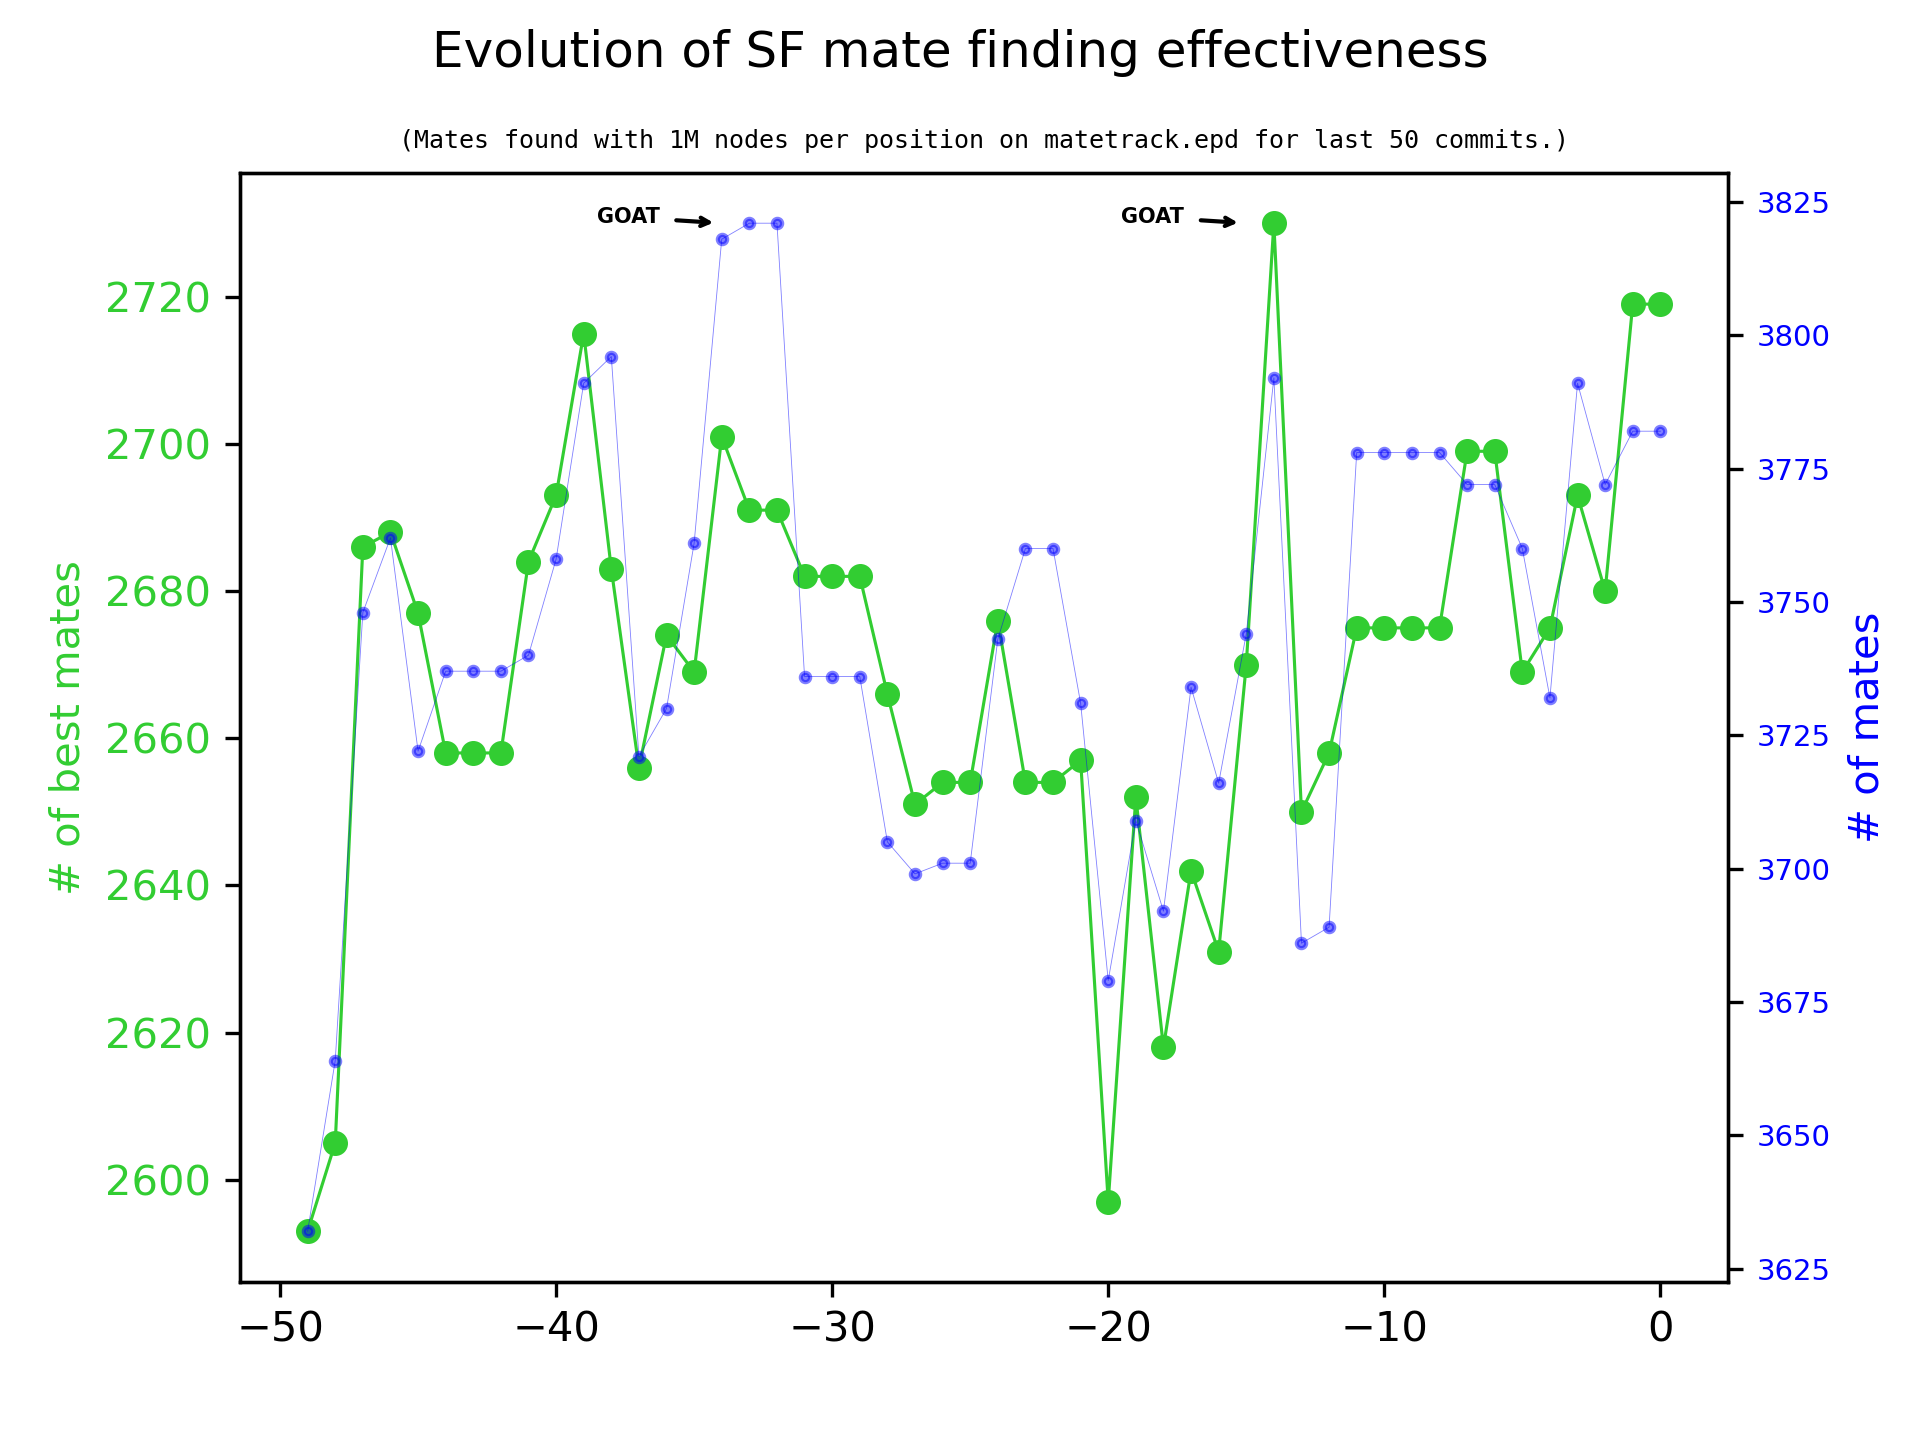
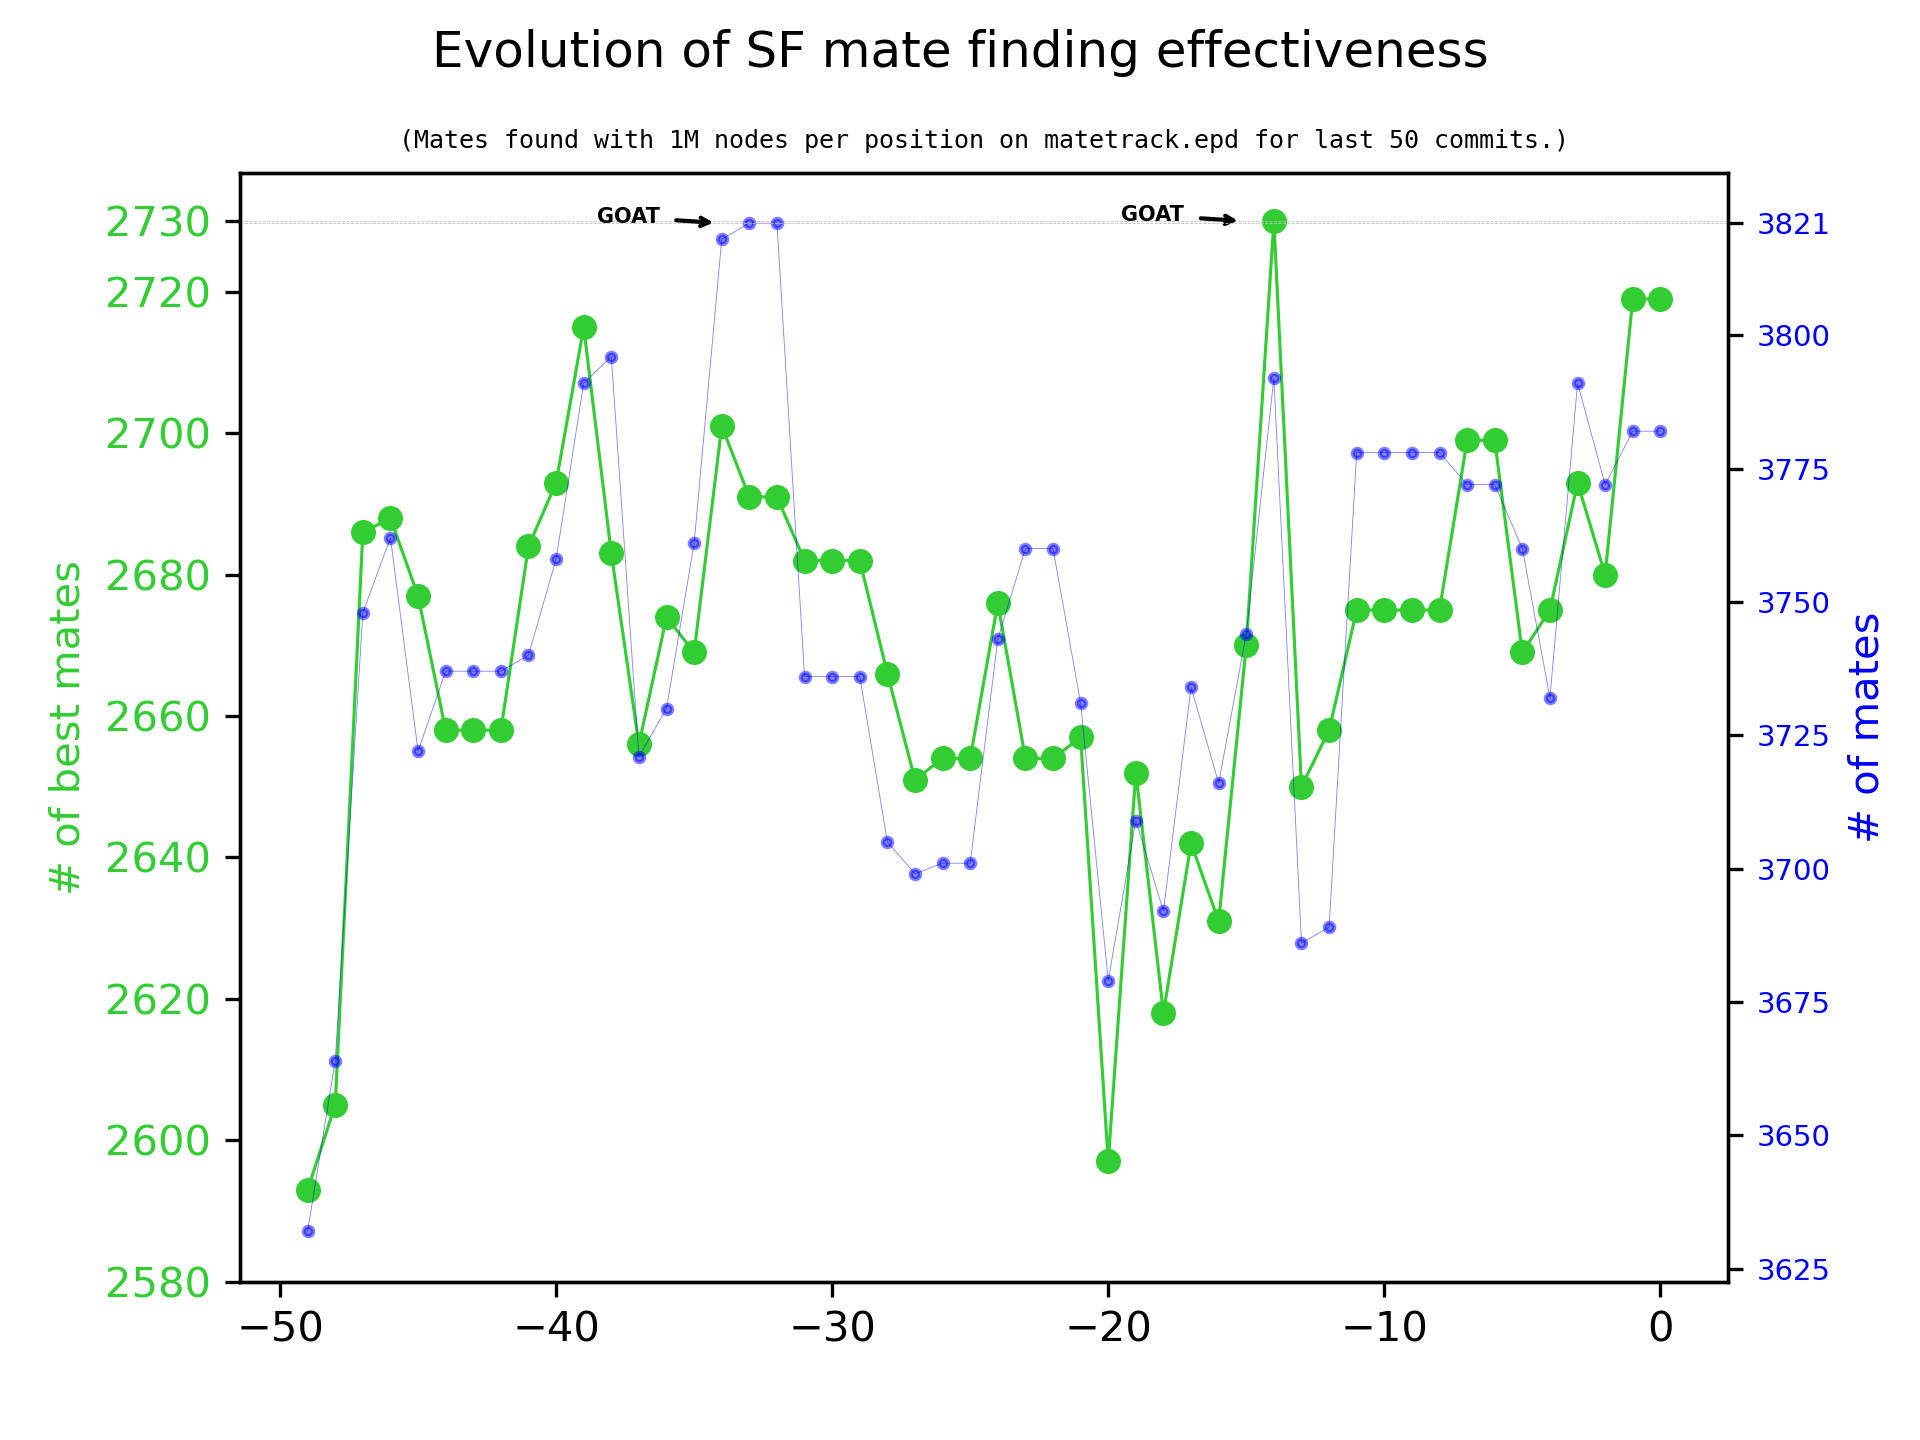
add GOAT values on recent axes

diff --git a/plotdata.py b/plotdata.py
@@ -112,9 +112,10 @@ class matedata:
                     weight="bold",
                 )
 
-        # GOAT label
+        # add GOAT labels
         for dataset in [self.mates, self.bmates]:
-            maxIndex = dataset.index(max(dataset))
+            maxValue = max(dataset)
+            maxIndex = dataset.index(maxValue)
             usedAxis = ax2 if not plotAll and dataset == self.mates else ax
             usedAxis.annotate(
                 "GOAT",
@@ -129,6 +130,15 @@ class matedata:
                 fontsize=5,
                 weight="bold",
             )
+            if plotAll:
+                continue
+            usedAxis.axhline(
+                maxValue, color="silver", linestyle="dashed", linewidth=0.2
+            )
+            yt = list(usedAxis.get_yticks())
+            if min(dataset[plotStart:]) > yt[1]:
+                yt.pop(0)
+            usedAxis.set_yticks([t for t in yt if t < maxValue] + [maxValue])
 
         fig.suptitle("Evolution of SF mate finding effectiveness")
         nodes = self.prefix[len(self.prefix.rstrip("0123456789")) :]
